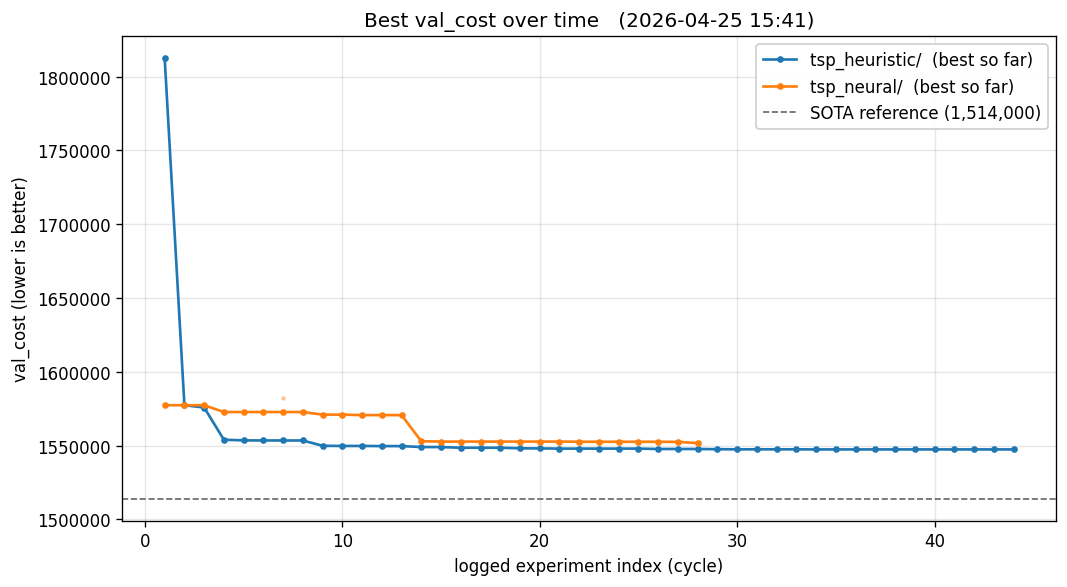
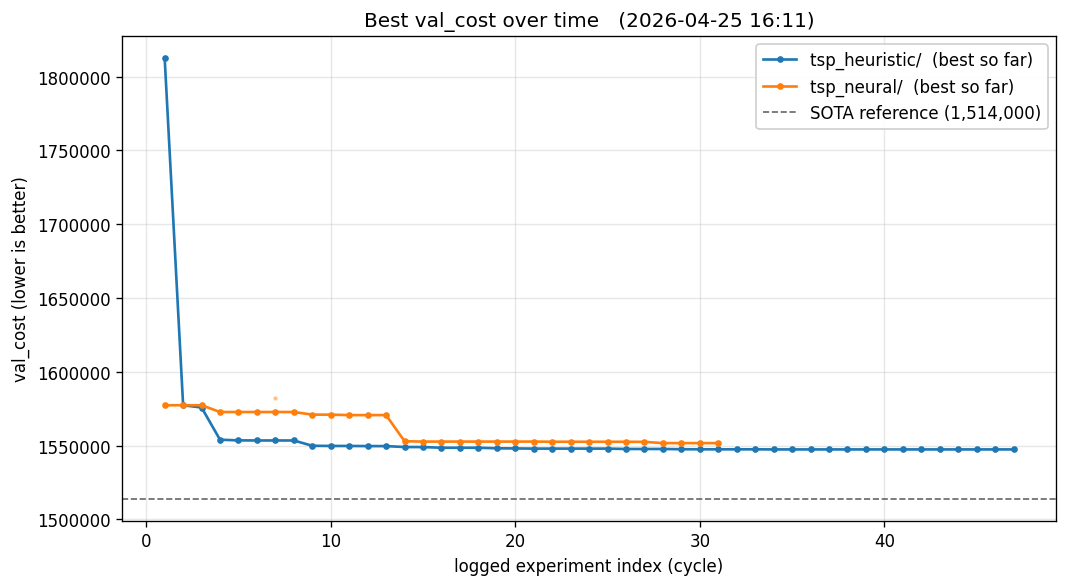
docs: status + chart refresh (auto-tick 16:11)
Both loops in plateau territory this tick — best val_costs unchanged.

Heuristic: 44→47 cycles. 3 more discards: C6 multi-start NN (+2642),
OrRev reverse Or-opt (+1554), Z5b GLS lam=0.1 (tie — penalty bumps
below noise floor).

Neural: 28→31 cycles. 3 more discards: MAX_VND_OUTER 10→5 bit-identical
(cap was non-binding), ILS 1x perturbation sub-noise (+135), ILS 3x
above-noise (+256). Confirms 2x kick is the sweet spot.

diff --git a/README.md b/README.md
@@ -100,14 +100,14 @@ by a periodic cron job (see `chart-progress` skill).
 
 ## Status
 
-*As of 2026-04-25 15:41 EDT. SOTA = 1,514,000 (Santa 2018 top
+*As of 2026-04-25 16:11 EDT. SOTA = 1,514,000 (Santa 2018 top
 public-LB). `val_cost` is the official Santa 2018 cost (lower is
 better). `% SOTA` = `100 − gap`, where `gap = (val_cost − SOTA) / SOTA`.*
 
 | Loop | % SOTA | Best `val_cost` | Cycles |
 |---|---|---|---|
-| `tsp_heuristic/` | 97.80% | 1,547,351 | 44 |
-| `tsp_neural/`    | 97.51% | 1,551,636 | 28 |
+| `tsp_heuristic/` | 97.80% | 1,547,351 | 47 |
+| `tsp_neural/`    | 97.51% | 1,551,636 | 31 |
 
 ![Progress](progress.png)
 
